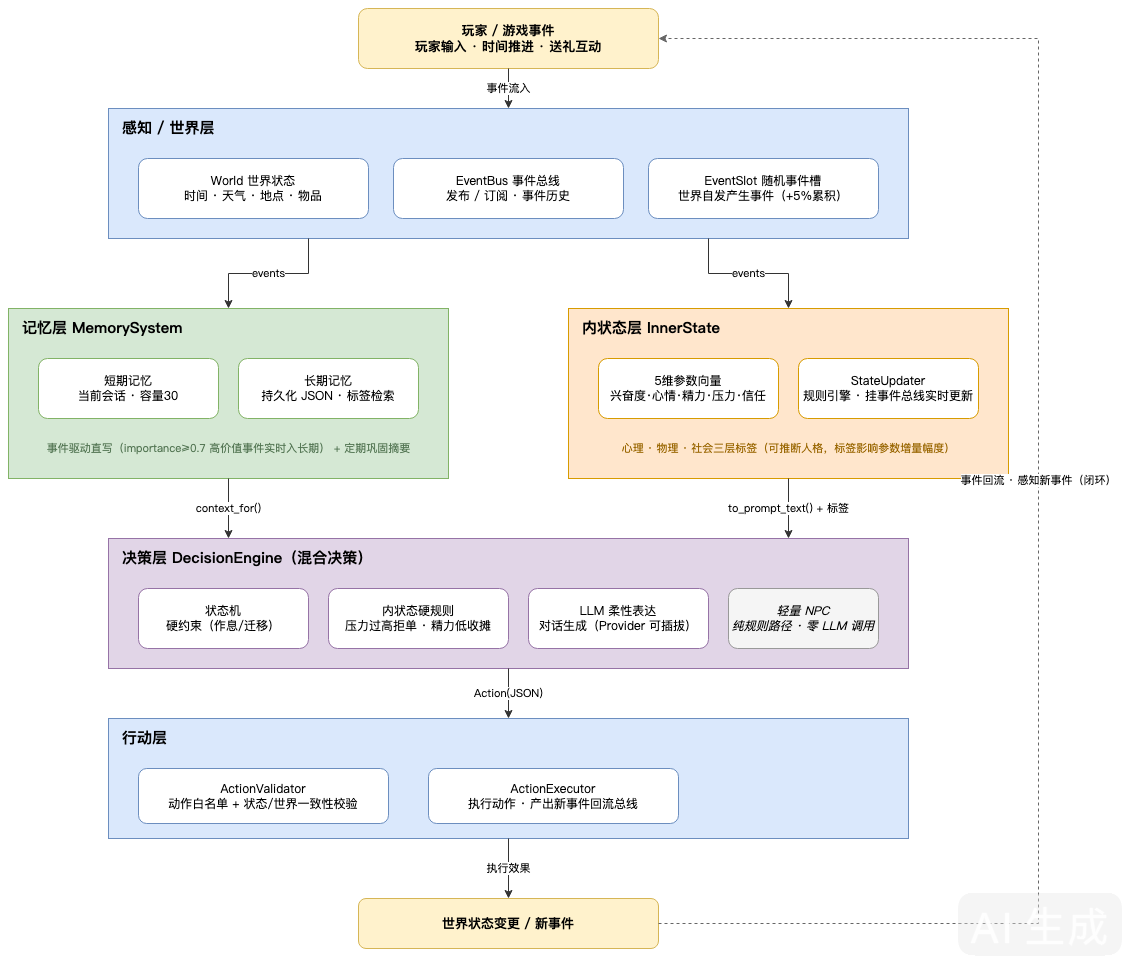
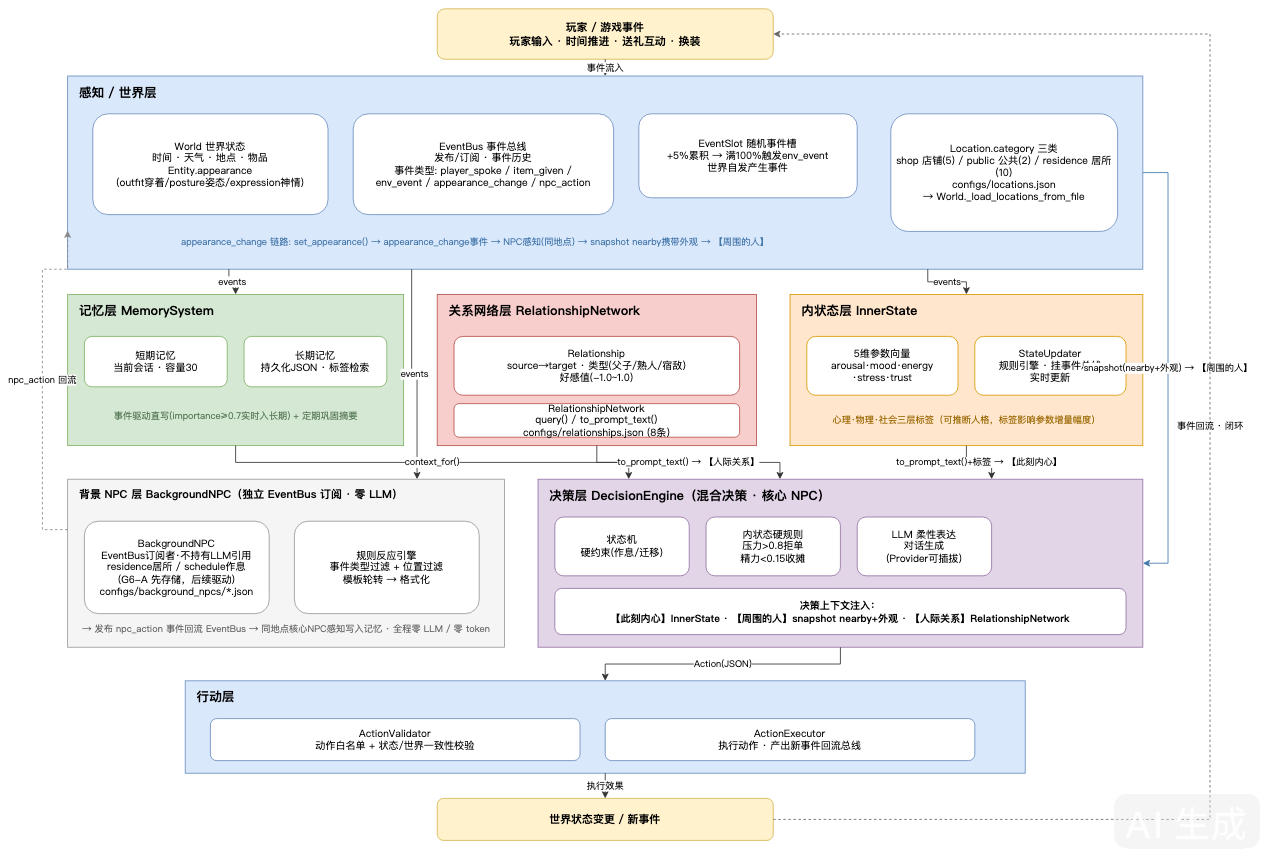
2026-10-03 04:00 架构图重画：G5+G6-A 全要素覆盖（appearance链路/关系网络层/BackgroundNPC独立层/上下文三块/Location.category/配置加载/residence-schedule），视觉QA 8项全PASS

diff --git a/README.md b/README.md
@@ -121,8 +121,11 @@ autonomous-npc-agent/
 
 ![架构图](docs/architecture.png)
 
-- 事件经 EventBus 分发，**记忆层**（短期/长期/事件驱动直写）与**内状态层**（5 维参数 + 规则引擎 + 标签）并行消费
-- 决策层混合决策：状态机与内状态管**硬规则**，LLM 管**柔性表达**；轻量 NPC 走纯规则路径（零 LLM 调用）
+- 事件经 EventBus 分发，**记忆层**（短期/长期/事件驱动直写）、**内状态层**（5 维参数 + 规则引擎 + 标签）、**关系网络层**（好感值 → 【人际关系】注入）并行消费
+- **背景 NPC 层**独立于决策层：EventBus 订阅 → 规则反应 → npc_action 事件回流，全程零 LLM 调用
+- 决策层混合决策：状态机与内状态管**硬规则**，LLM 管**柔性表达**；上下文注入【此刻内心】【周围的人】(nearby+外观)【人际关系】三块
+- **外观链路**：set_appearance → appearance_change 事件 → NPC 感知 → snapshot nearby 携带外观 → 决策上下文
+- **村庄结构**：Location.category 三类（shop 店铺 / public 公共 / residence 居所），configs/locations.json 配置化加载
 - 行动层白名单校验后执行，新事件回流总线，形成**世界闭环**
 
 图表源文件 [docs/architecture.drawio](./docs/architecture.drawio) 可在 [app.diagrams.net](https://app.diagrams.net) 打开编辑。详见 [ARCHITECTURE.md](./ARCHITECTURE.md)。
